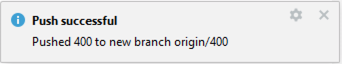
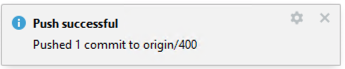
piepline config

Changed region(s): [[0.0, 0.0, 0.9942, 1.0], [0.0877, 0.5625, 0.6725, 0.7812]]

diff --git a/overviews/A/README.md b/overviews/A/README.md
@@ -81,9 +81,38 @@ After you see the success message that indicates that the Cx Server successfully
 
 ![](../../images/a/jenkins-welcome.png)
 
+Woohoo! Our Continuous Delivery server is running. Now we can look into settting up the pipeline for our project. This comprises the following steps: 
+* For deploying the application, we need to add the SCP target space to our declarative pipeline configuration. The `pipeline_config.yml` file is contained in our source code repository.
+* For running the Continuous Delivery pipeline of our application, we need to create a build job in Jenkins that is linked to our source code repository.
 
-* Exercise A1 - [Make small change and test it into your local test environment](../../exercises/A1/README.md)
-* Exercise A2 - [Converting your solution to a Multi-Target Application and test it on SAP Cloud Platform](../../exercises/A2/README.md)
+## Customize Your Pipeline Configuration
 
+Thanks to the high degree of standardization in our project, we can adopt the SAP Cloud SDK pipeline without writing a single line of code. For modifying pipeline behavior, we can leverage the declarative `pipeline_config.yml` file which is located in the root of our project. Here we can perform well-defined customizations. In this session, we will use it to define the location of the HANA database which will be used during automated tests and to define the SAP Cloud Platform deploymemt targets.
 
-[[![](../../images/nav-home.png) Overview page](../../README.md) ｜ [![](../../images/nav-next.png) Start Exercise](../../exercises/A1/README.md)]
+In this session, the instructors created a SAP Cloud Platform user account and corresponding target space for each participant. So, let's switch back to IntelliJ and add the deployment target of our app to `pipeline_config.yml`.
+
+Locate `pipeline_config.yml` in your project view and open it with a double click. As you can see, the configuration file already contains placeholder configuration entries for the HANA database and for the deployment. In order to make it work, we need to fill the placeholder `participantId` with the id that was assigned to us.
+
+For this, click on `Edit > Find > Replace` like shown below.
+
+![](../../images/a/replace-pipeline-config.png)
+
+Now enter `participantId` as term to be replaced and your personal participant id as replacement. Then click on `Replace all`. Then save the file.
+
+![](../../images/a/customize-pipeline-config.png)
+
+Finally, we just need to commit and push our new configuration to the central source code repository. On the lower left, click on `Local Changes` and then on the green "Commit" checkmark.
+
+![](../../images/a/commit-pipeline-config.png)
+
+In the appearing dialog, perform the following steps:
+* double check that your participant id is correctly filled into the placeholders in `pipeline_config.yml`
+* enter a commit message (e.g., "adapt pipeline config")
+* click on the down-facing arrow in the `Commit` button
+* select `Commit and Push`
+
+![](../../images/a/push-pipeline-config.png)
+
+After pushing your changes succesfully, you will see the following pop-up on the bottom right.
+
+![](../../images/a/push-success.png)
